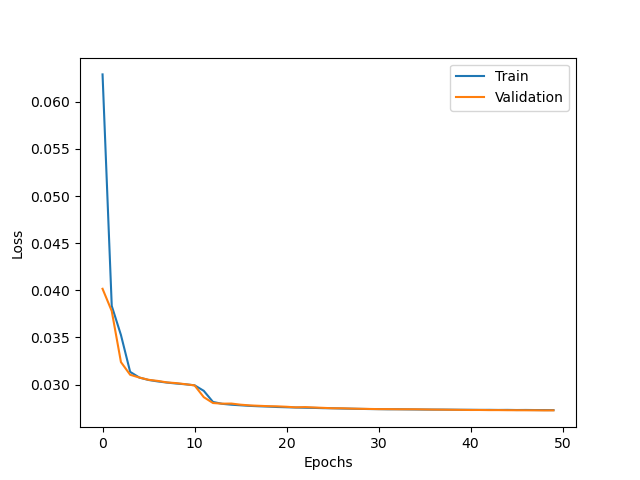
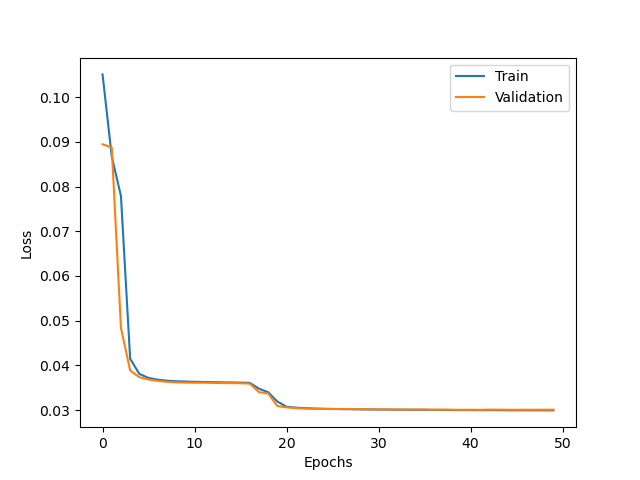
model with more nonlinearity

diff --git a/modelLib.py b/modelLib.py
@@ -16,6 +16,7 @@ class encodeBlock(nn.Module):
     def forward(self,x):
         x = self.conv1(x)
         x = self.pool1(x)
+        x = self.relu(x)
         x = self.conv2(x)
         x = self.pool2(x)
         x = self.relu(x)
@@ -34,6 +35,7 @@ class decodeBlock(nn.Module):
     def forward(self,x):
         x = self.convTrans1(x)
         x = self.conv1(x)
+        x = self.relu(x)
         x = self.convTrans2(x)
         x = self.conv2(x)
         x = self.relu(x)
